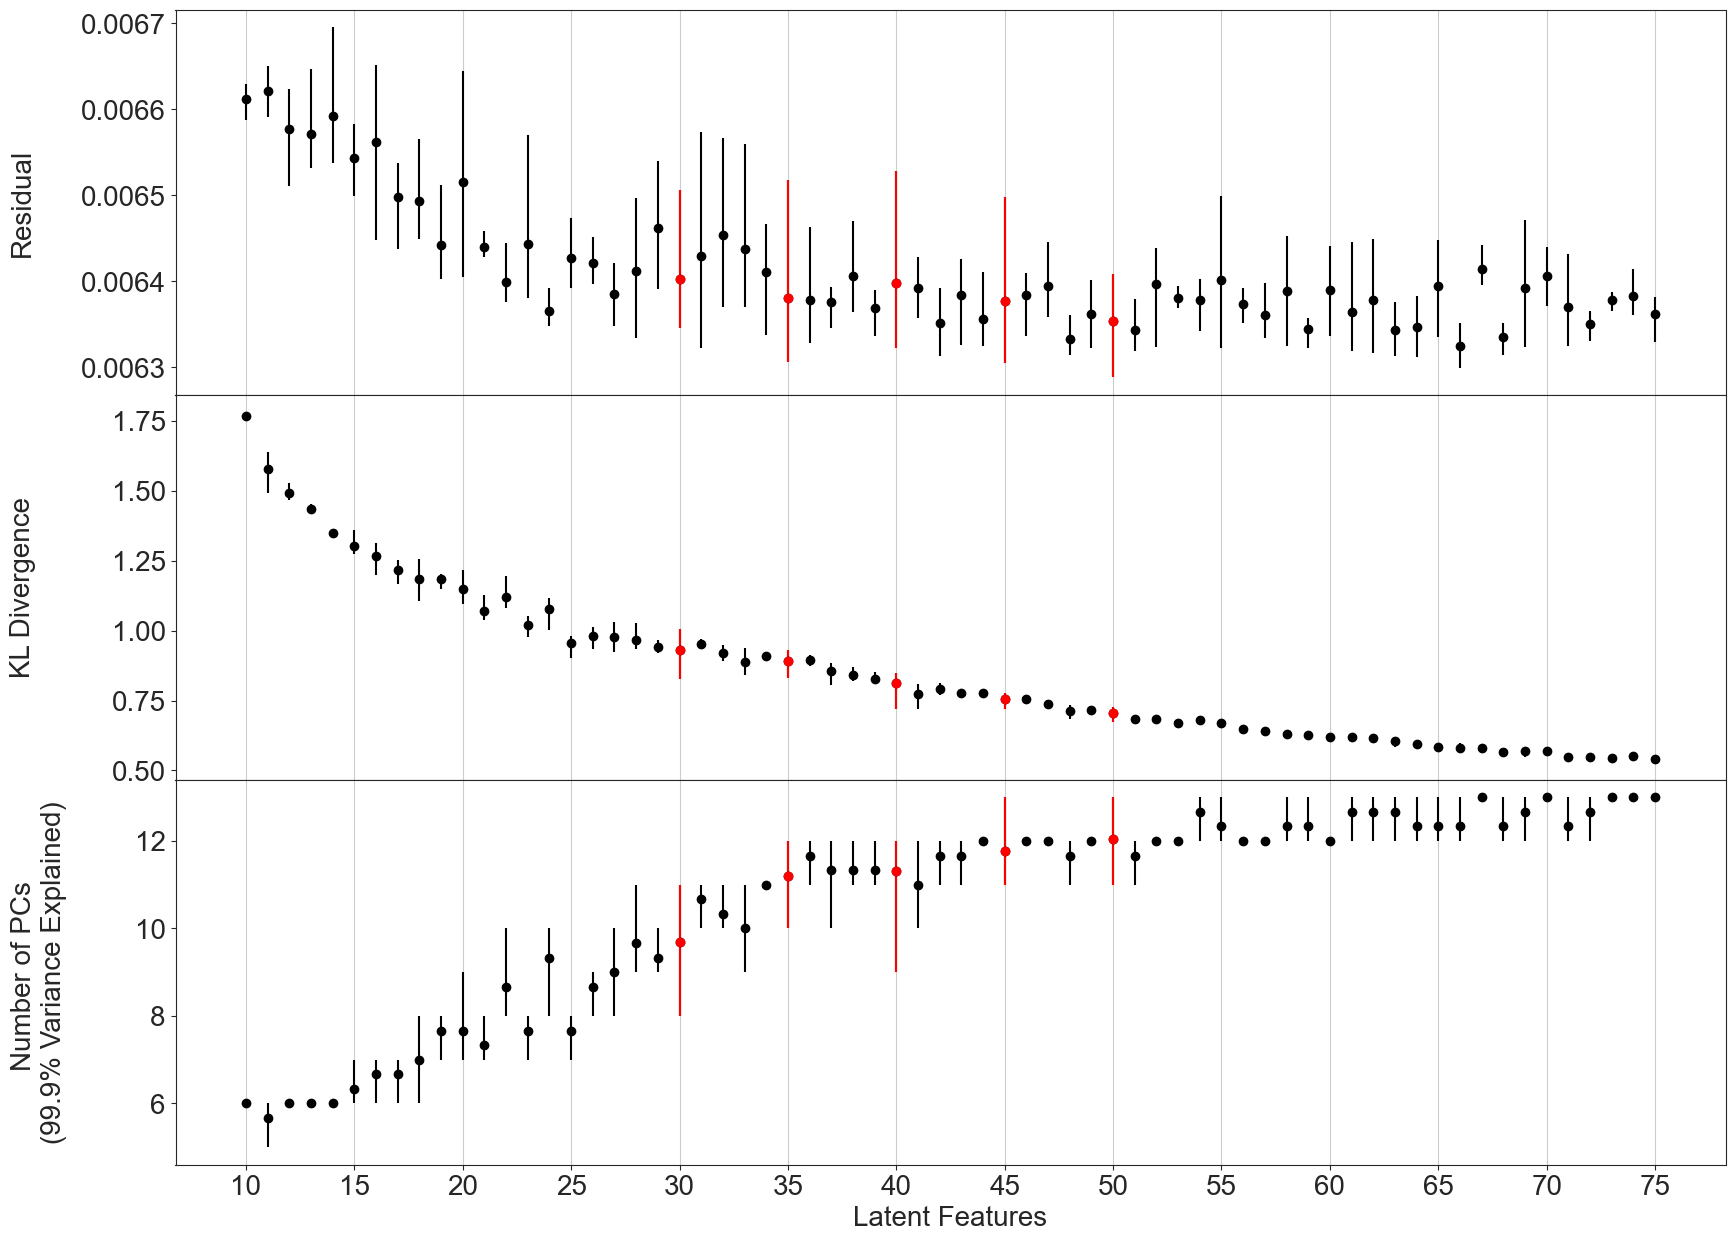
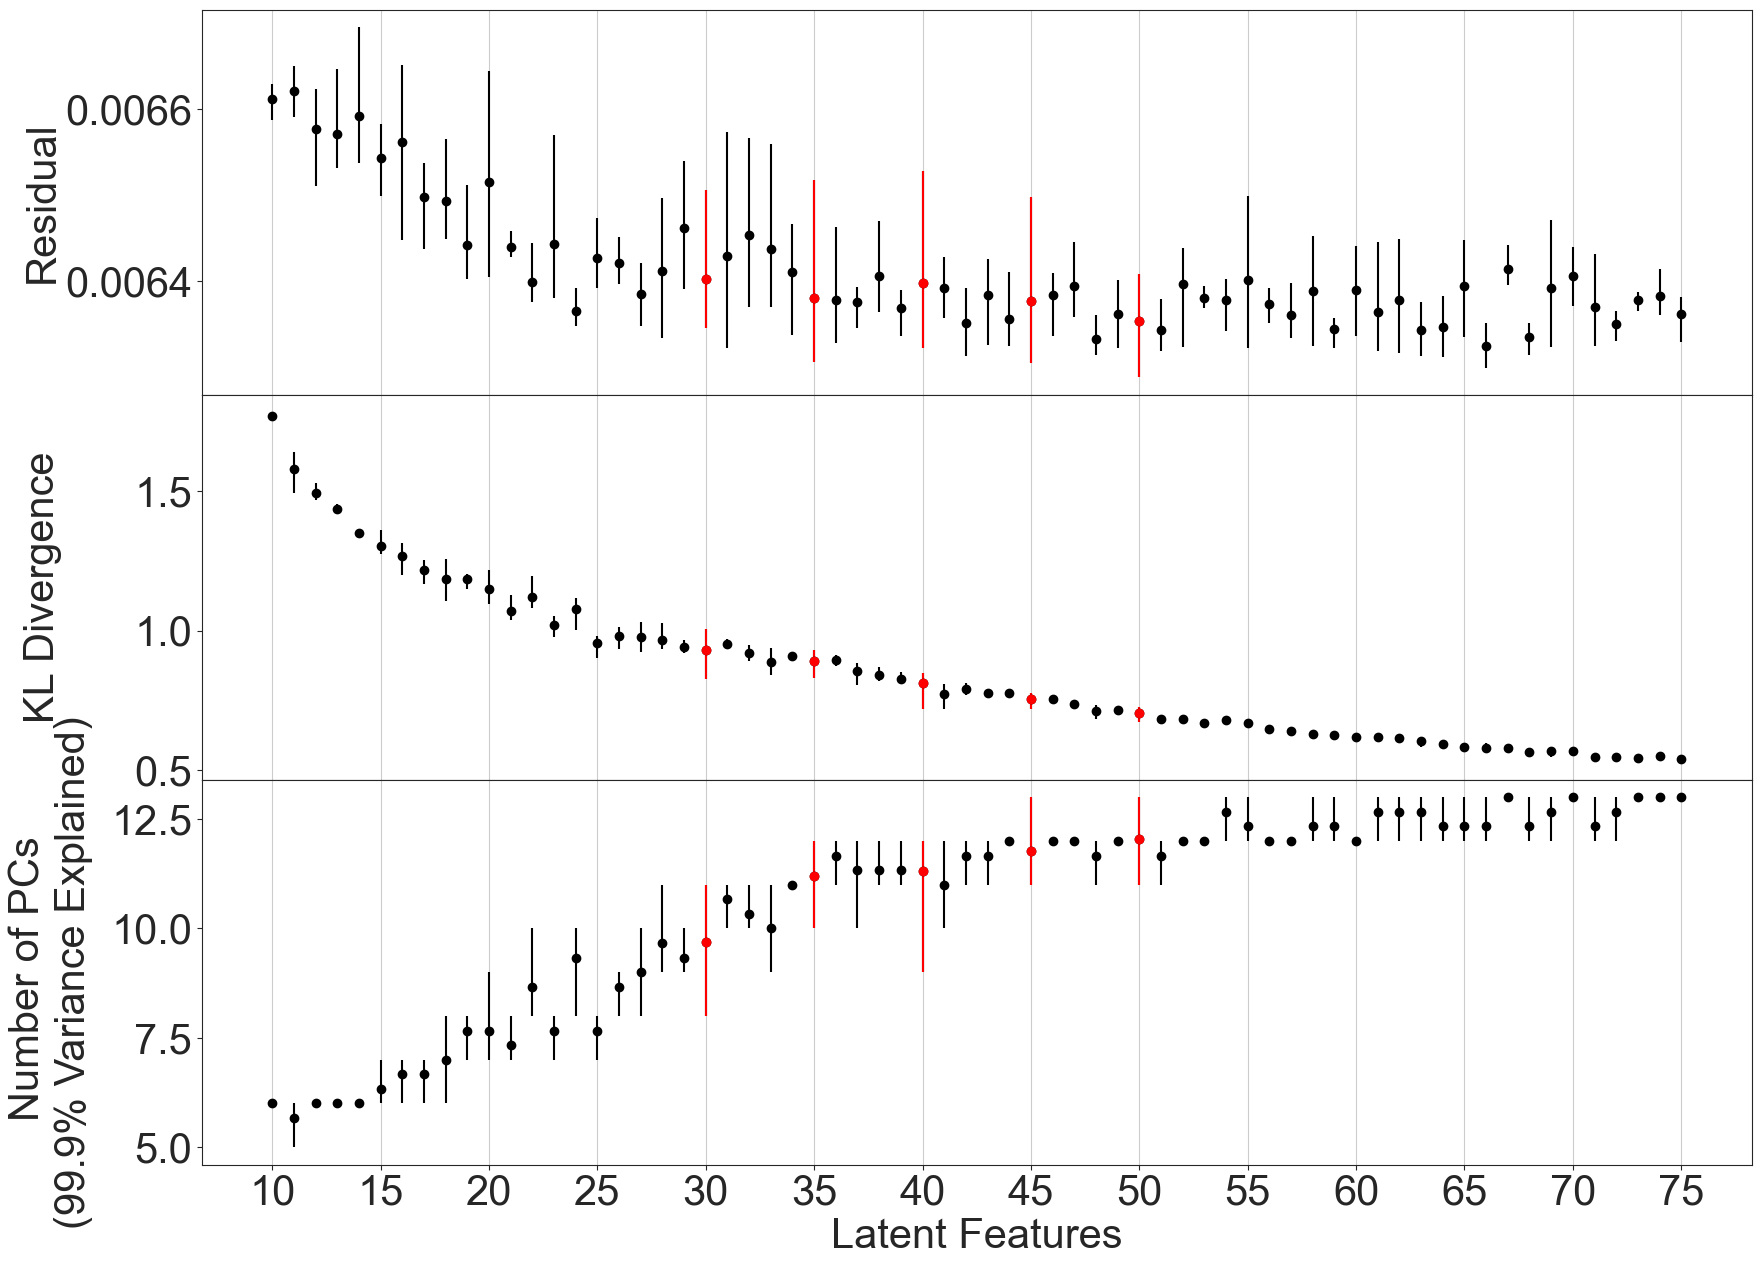
Code

diff --git a/optimal_features.py b/optimal_features.py
@@ -8,7 +8,6 @@ from matplotlib import pyplot as plt
 from matplotlib import image as mpimg
 import seaborn as sns
 
-from test import subset_indices
 
 pd.set_option('display.max_columns', None)
 pd.set_option('display.width', 500)
@@ -135,7 +134,7 @@ subset_indices = [20, 25, 30, 35, 40]
 residual_err_lower = residuals.T[1] - residuals.T[0]
 residual_err_upper = residuals.T[2] - residuals.T[1]
 axs[0].errorbar(x=x_range, y=residuals.T[1], yerr=[residual_err_lower, residual_err_upper], fmt="o", color="black",)
-axs[0].errorbar(x=[30, 35, 40, 45, 50], y=[residuals.T[1][i] for i in subset_indices], yerr=[[residual_err_lower[i] for i in subset_indices], [residual_err_upper[i] for i in subset_indices]], fmt="o", color="C0",)
+axs[0].errorbar(x=[30, 35, 40, 45, 50], y=[residuals.T[1][i] for i in subset_indices], yerr=[[residual_err_lower[i] for i in subset_indices], [residual_err_upper[i] for i in subset_indices]], fmt="o", color="red",)
 axs[0].get_yaxis().get_major_formatter().set_useOffset(False)
 
 
@@ -143,40 +142,40 @@ axs[0].get_yaxis().get_major_formatter().set_useOffset(False)
 kl_err_lower = kl_losses.T[1] - kl_losses.T[0]
 kl_err_upper = kl_losses.T[2] - kl_losses.T[1]
 axs[1].errorbar(x=x_range, y=kl_losses.T[1], yerr=[kl_err_lower, kl_err_upper], fmt="o", color="black",)
-axs[1].errorbar(x=[30, 35, 40, 45, 50], y=[kl_losses.T[1][i] for i in subset_indices], yerr=[[kl_err_lower[i] for i in subset_indices], [kl_err_upper[i] for i in subset_indices]], fmt="o", color="C0",)
+axs[1].errorbar(x=[30, 35, 40, 45, 50], y=[kl_losses.T[1][i] for i in subset_indices], yerr=[[kl_err_lower[i] for i in subset_indices], [kl_err_upper[i] for i in subset_indices]], fmt="o", color="red",)
 
 # calculate error bars and plot number of principal components
 components_err_lower = num_components.T[1] - num_components.T[0]
 components_err_upper = num_components.T[2] - num_components.T[1]
 axs[2].errorbar(x=x_range, y=num_components.T[1], yerr=[components_err_lower, components_err_upper], fmt="o", color="black",)
-axs[2].errorbar(x=[30, 35, 40, 45, 50], y=[num_components.T[1][i] for i in subset_indices], yerr=[[components_err_lower[i] for i in subset_indices], [components_err_upper[i] for i in subset_indices]], fmt="o", color="C0")
+axs[2].errorbar(x=[30, 35, 40, 45, 50], y=[num_components.T[1][i] for i in subset_indices], yerr=[[components_err_lower[i] for i in subset_indices], [components_err_upper[i] for i in subset_indices]], fmt="o", color="red")
 
 
-axs[0].set_ylabel("Residual", labelpad=10, fontsize=20, loc="center")
+axs[0].set_ylabel("Residual", labelpad=10, fontsize=25, loc="center")
 # axs[0].yaxis.set_label_coords(-0.1, 0.5)
 # axs[0].yaxis.set_label_coords(-0.13, 0.5)
 axs[0].yaxis.set_label_coords(-0.09, 0.5)
 
-axs[1].set_ylabel("KL Divergence", labelpad=10, fontsize=20, loc="center")
+axs[1].set_ylabel("KL Divergence", labelpad=10, fontsize=25, loc="center")
 # axs[1].yaxis.set_label_coords(-0.1, 0.5)
 # axs[1].yaxis.set_label_coords(-0.13, 0.5)
 axs[1].yaxis.set_label_coords(-0.09, 0.5)
 
 # axs[2].set_ylabel("Number of Principal \nComponents", labelpad=10, fontsize=20, loc="center")
 # axs[2].set_ylabel("Number of Principal \nComponents Contributing \nto 99.9% Variance", labelpad=10, fontsize=20, loc="center")
-axs[2].set_ylabel("Number of PCs \n(99.9% Variance Explained)", labelpad=10, fontsize=20, loc="center")
+axs[2].set_ylabel("Number of PCs \n(99.9% Variance Explained)", labelpad=10, fontsize=25, loc="center")
 # axs[2].yaxis.set_label_coords(-0.068, 0.5)
 # axs[2].yaxis.set_label_coords(-0.098, 0.5)
 axs[2].yaxis.set_label_coords(-0.07, 0.5)
 # axs[2].yaxis.set_label_coords(-0.1, 0.5)
 
-axs[0].tick_params(axis="both", labelsize=20)
-axs[1].tick_params(axis="both", labelsize=20)
-axs[2].tick_params(axis="both", labelsize=20)
+axs[0].tick_params(axis="both", labelsize=25)
+axs[1].tick_params(axis="both", labelsize=25)
+axs[2].tick_params(axis="both", labelsize=25)
 
 # axs[0].set_xlabel("Latent Features", fontsize=20)
 # axs[1].set_xlabel("Latent Features", fontsize=20)
-axs[2].set_xlabel("Latent Features", fontsize=20)
+axs[2].set_xlabel("Latent Features", fontsize=25)
 
 # axs[0].set_xticks(list(range(10, 51, 5)))
 # axs[1].set_xticks(list(range(10, 51, 5)))
@@ -214,7 +213,7 @@ axs[2].grid(axis="x")
 
 fig.subplots_adjust(hspace=0.0)
 
-plt.savefig("Variational Eagle/Plots/optimal_features_75_residual_mean_3", bbox_inches="tight")
+plt.savefig("Variational Eagle/Plots/optimal_features_75_residual_mean_2", bbox_inches="tight")
 plt.show()
 
 
